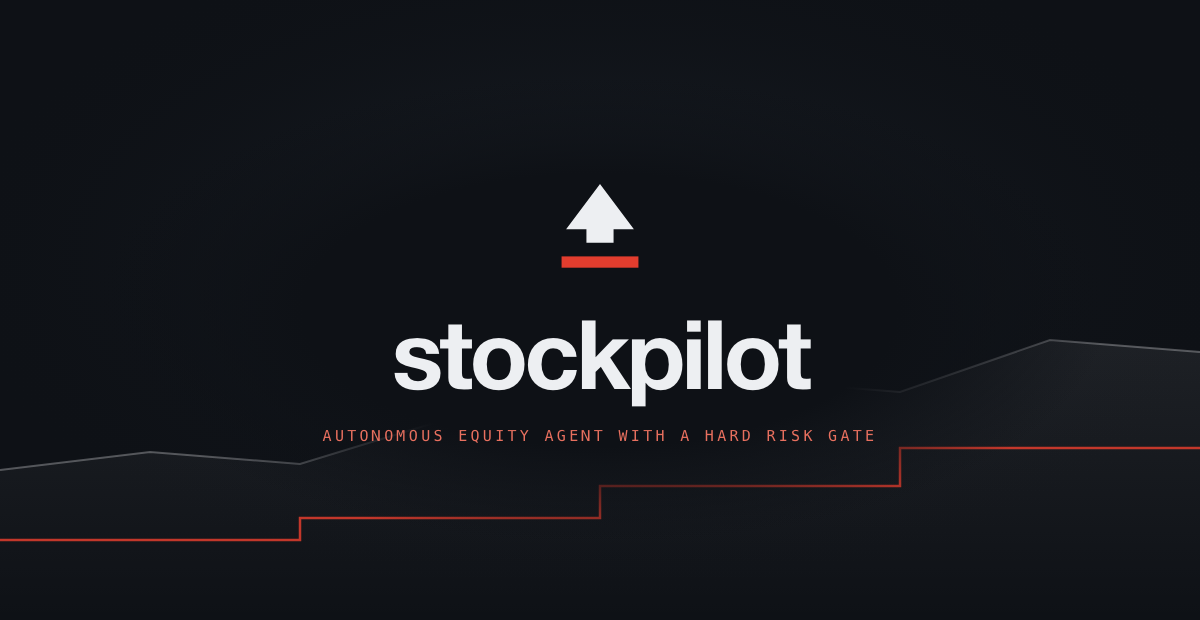
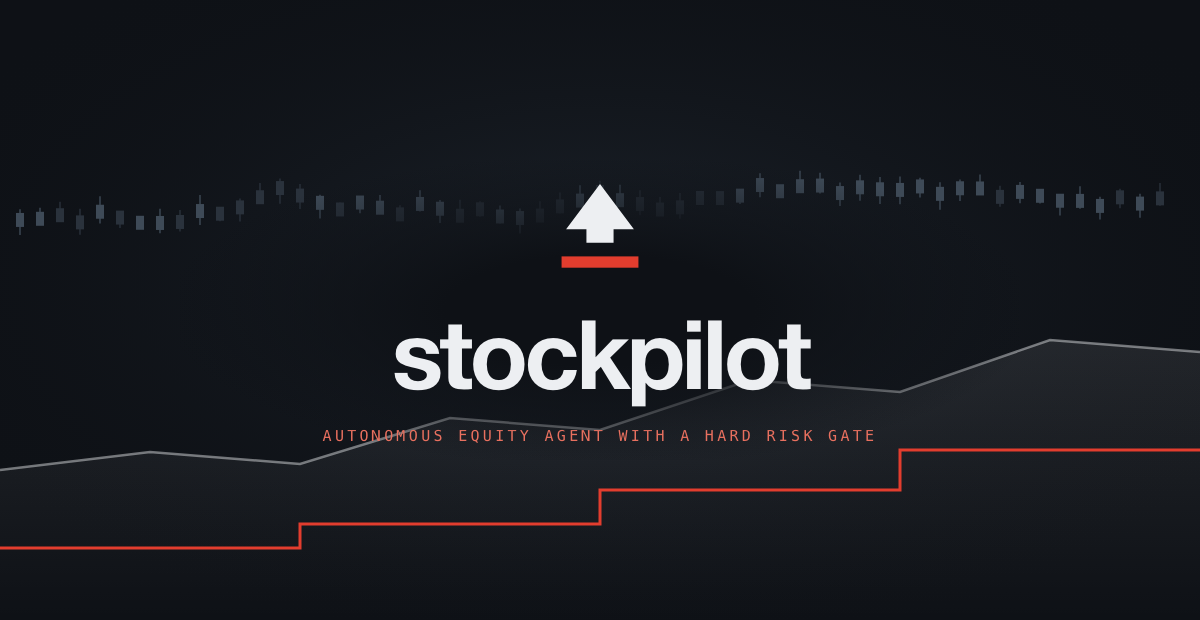
Give the header room and make the badge row read as one strip
The banner artwork was hidden behind an oversized scrim, so a page that should
open on a picture opened on an empty field. The artwork is now dense and
visible, and it is drawn from what this project actually does.

The badge row had grey label halves and inconsistent colours, so it read as a
pile of separate images. Every badge now shares one dark label colour and
carries this project's accent on the value half, all on a single line.

Sections have air between them instead of butting up against each other.

diff --git a/README.md b/README.md
@@ -5,12 +5,10 @@
 ### An autonomous equity agent for Alpaca whose risk layer is allowed to veto its own strongest signal.
 
 <p>
-<img src="https://img.shields.io/badge/license-MIT-0E1116?style=for-the-badge" alt="" height="30"/>
-<img src="https://img.shields.io/badge/python-3.11%2B-0E1116?style=for-the-badge&logo=python&logoColor=white" alt="" height="30"/>
-<img src="https://img.shields.io/badge/execution-paper%20only-E23D2E?style=for-the-badge" alt="" height="30"/>
-<img src="https://img.shields.io/badge/risk%20per%20trade-0.25%25-0E1116?style=for-the-badge" alt="" height="30"/>
-<img src="https://img.shields.io/badge/backtest-no%20lookahead-0E1116?style=for-the-badge" alt="" height="30"/>
+<img src="https://img.shields.io/badge/license-MIT-E23D2E?style=for-the-badge&labelColor=161A21" alt=""/> <img src="https://img.shields.io/badge/python-3.11%2B-3776AB?style=for-the-badge&logo=python&logoColor=white&labelColor=161A21" alt=""/> <img src="https://img.shields.io/badge/execution-paper%20only-E23D2E?style=for-the-badge&labelColor=161A21" alt=""/> <img src="https://img.shields.io/badge/risk%20per%20trade-0.25%25-8A94A2?style=for-the-badge&labelColor=161A21" alt=""/> <img src="https://img.shields.io/badge/backtest-no%20lookahead-8A94A2?style=for-the-badge&labelColor=161A21" alt=""/>
 </p>
+
+<br>
 
 </div>
 
